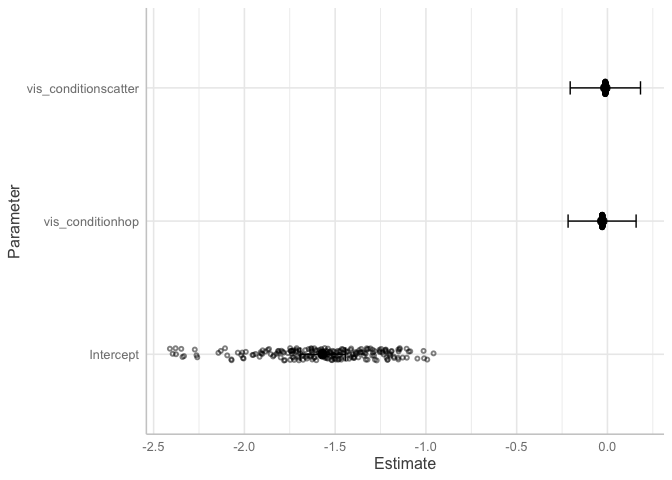
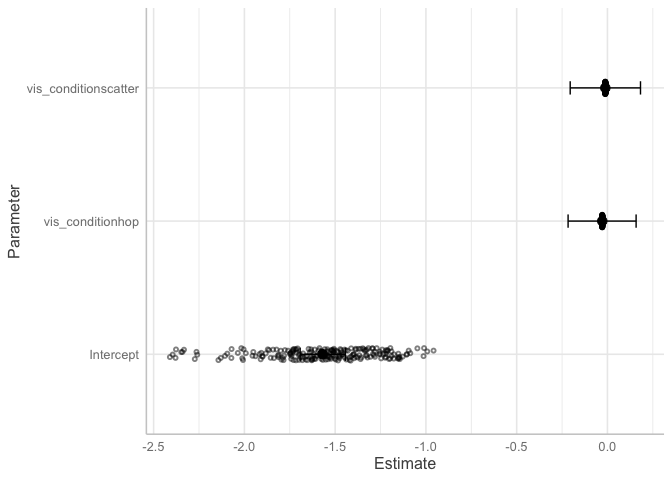
update uncert-diff.Rmd

Changed region(s): [[0.25, 0.7188, 0.6562, 0.7812]]

diff --git a/R/02-vis-2022-uncert-diff.md b/R/02-vis-2022-uncert-diff.md
@@ -333,12 +333,12 @@ likelihoods.
 
 ``` r
 un_coef <- joined_models %>%
-  rename(Normal_Estimate = Estimate.x, Lognormal_Estimate = Estimate.y) %>%
-  select(Parameter, Normal_Estimate, Lognormal_Estimate) 
+  rename(Normal_Estimate = Estimate.x, TDist_Estimate = Estimate.y) %>%
+  select(Parameter, Normal_Estimate, TDist_Estimate) 
 
 un_error <- joined_models %>%
-  rename(Normal_low = `2.5%ile.x`, Normal_high = `97.5%ile.x`,Lognormal_low = `2.5%ile.y`, Lognormal_high = `97.5%ile.y`) %>%
-  select(Parameter, Normal_low, Normal_high, Lognormal_low, Lognormal_high) 
+  rename(Normal_low = `2.5%ile.x`, Normal_high = `97.5%ile.x`,TDist_low = `2.5%ile.y`, TDist_high = `97.5%ile.y`) %>%
+  select(Parameter, Normal_low, Normal_high, TDist_low, TDist_high) 
 
 var_order <- c("(Intercept)","vis_conditionscatter","vis_conditionhop")
 
@@ -347,14 +347,14 @@ inner_join(un_coef,un_error,by="Parameter") %>%
   tidyr::separate(name, c("Model","Estimate"), sep = "_") %>%
   tidyr::pivot_wider(names_from = c("Estimate")) %>%
   mutate(Parameter = factor(Parameter, levels = rev(var_order))) %>%
-  mutate(Model = factor(Model, levels = c("Normal", "Lognormal"))) %>%
+  mutate(Model = factor(Model, levels = c("Normal", "TDist"))) %>%
   ggplot(aes(x = Parameter, color = Model)) +
   geom_hline(yintercept = 0, alpha = 0.4) +
   geom_point(aes(y = Estimate),  position=position_dodge(.9)) +
   geom_errorbar(aes(ymin = low, ymax = high),  position=position_dodge(.9)) +
-  theme(legend.position = c(0.2,0.2),) +
+  theme(legend.position = c(0.2,0.85),) +
   labs(title = "Uncertainty Difference", subtitle = "Vary by Response Distribution") +
-  scale_color_manual(values = c("Lognormal" = "red",
+  scale_color_manual(values = c("TDist" = "red",
                                 "Normal"="black")) +  
   coord_flip()
 ```
